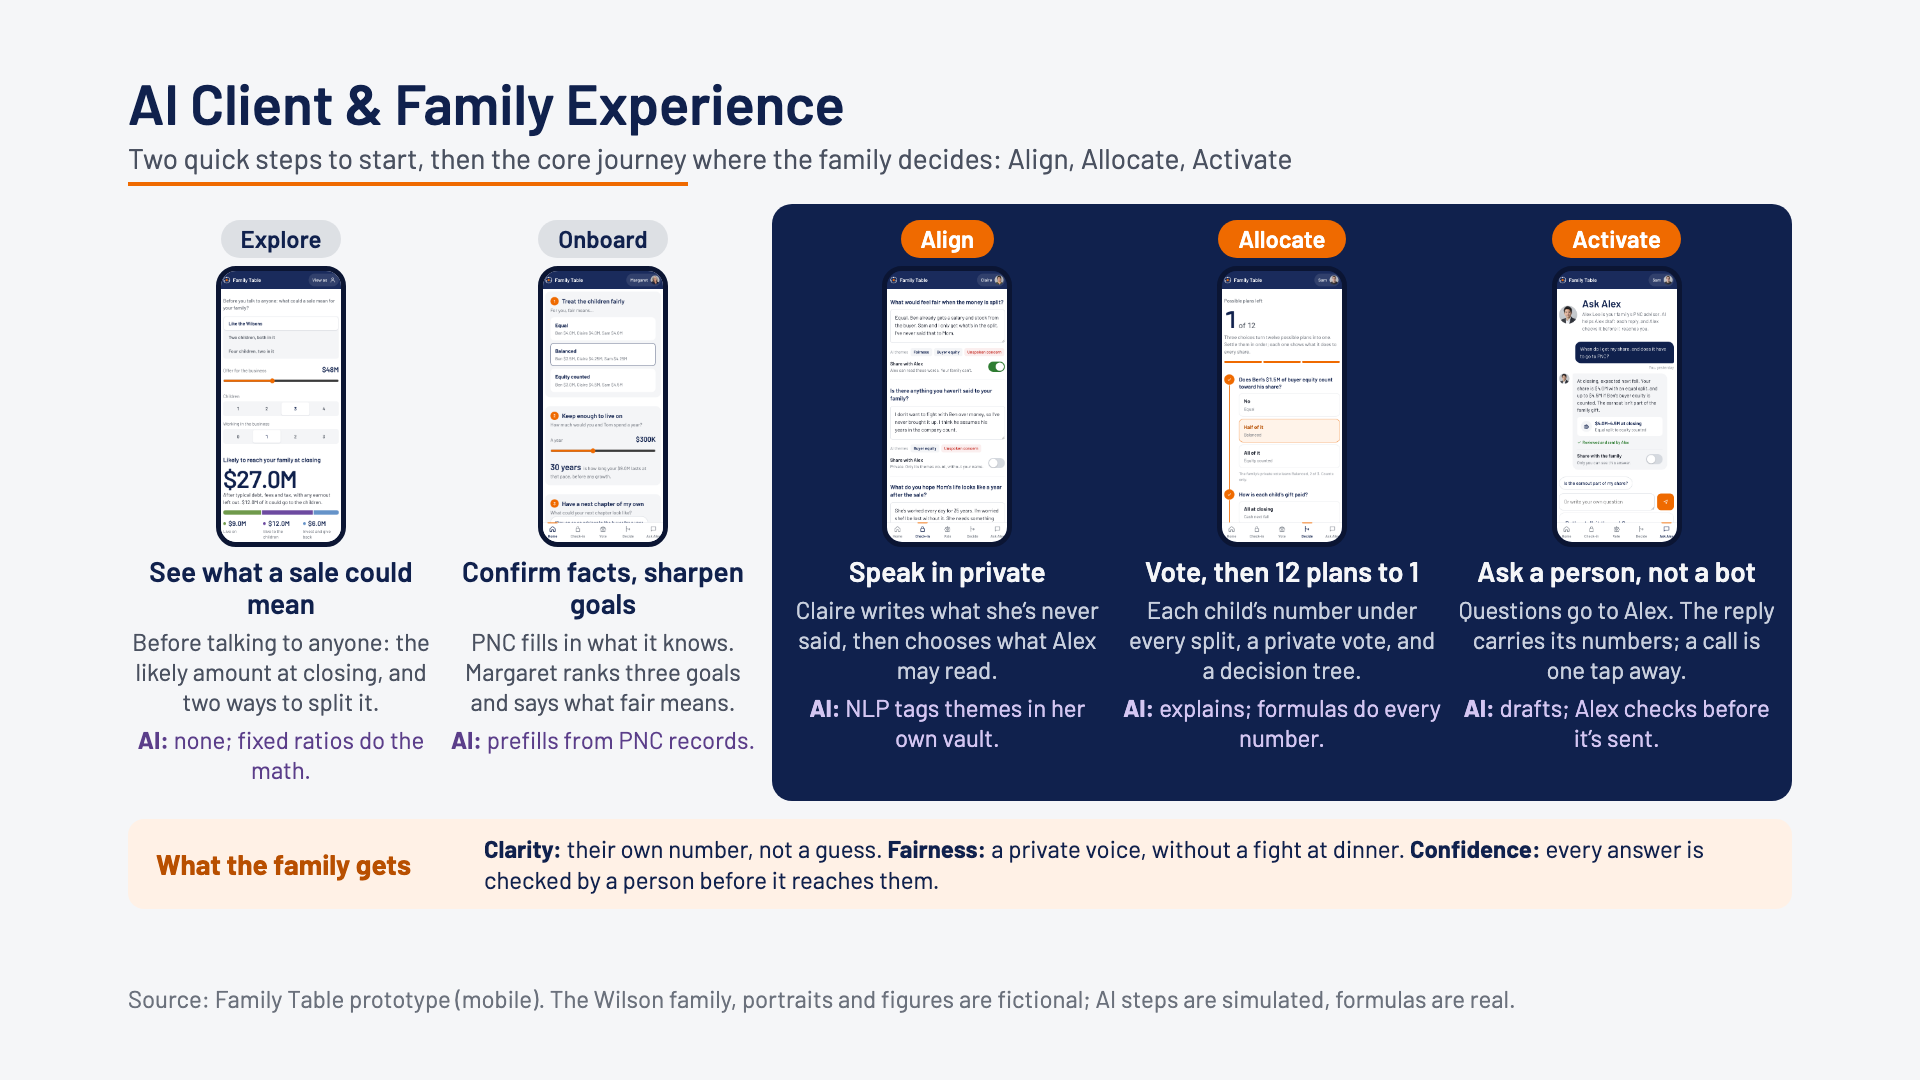
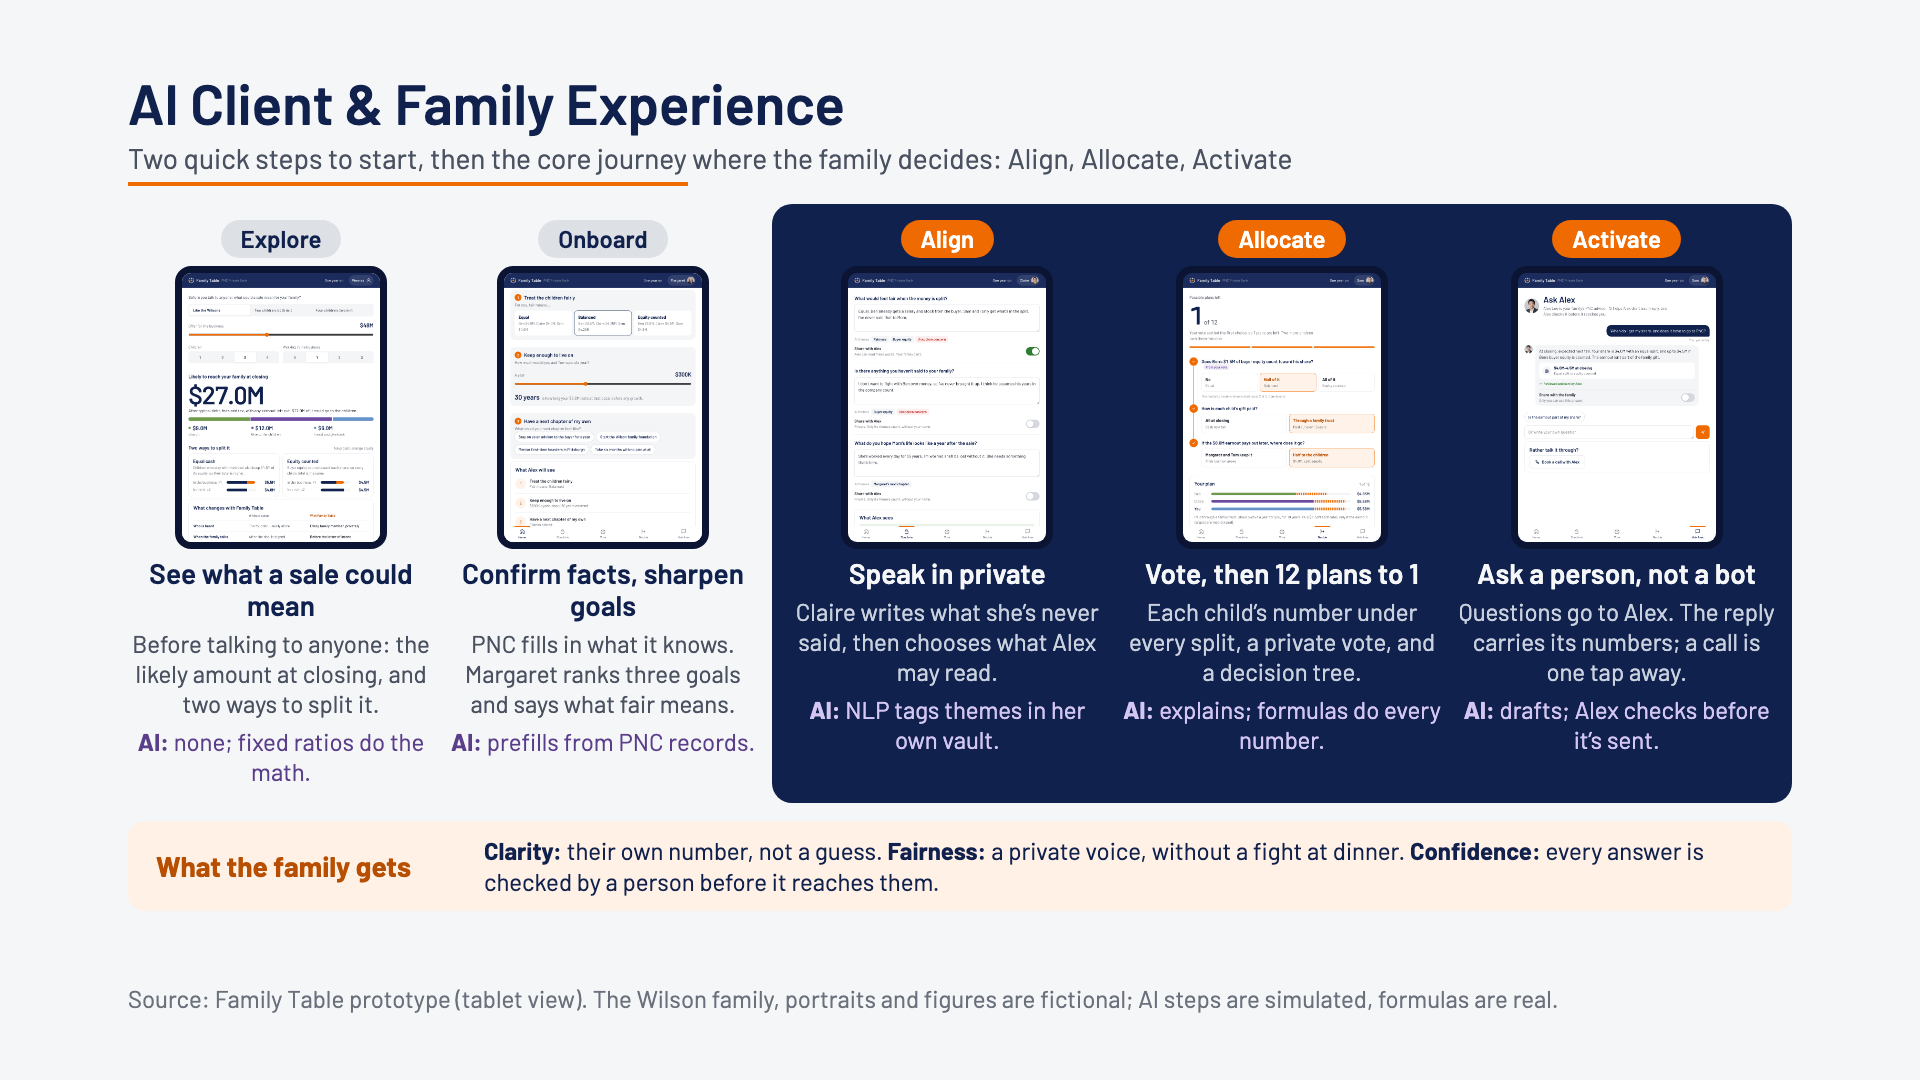
Three-slide deck: tablet mockups on the client experience slide

diff --git a/slides/claude_three/slides/client.html b/slides/claude_three/slides/client.html
@@ -8,14 +8,14 @@
 <div style="width:628px;display:flex;flex-direction:row;gap:16px;padding:16px 0">
 <div style="flex:1;display:flex;flex-direction:column;gap:8px;align-items:center">
 <p style="font-size:24px;font-weight:600;color:#10214D;background:#DDE0E4;padding:2px 20px;border-radius:20px">Explore</p>
-<img src="/_blob/00b10a6fb555babc2955d568ad271aaf" alt="Scenario preview before talking to PNC: $27.0M likely at closing, split into live on, give and invest" style="width:130px;height:281px;object-fit:cover;object-position:top;border:5px solid #0B1533;border-radius:20px">
+<img src="/_blob/1cb0f5b1113dc45f059174e77e356b79" alt="Scenario preview before talking to PNC: $27.0M likely at closing, split into live on, give and invest" style="width:212px;height:283px;object-fit:cover;object-position:top;border:7px solid #0B1533;border-radius:16px">
 <h3 style="font-size:28px;font-weight:600;line-height:1.15;color:#10214D;text-align:center">See what a sale could mean</h3>
 <p style="font-size:24px;line-height:1.25;color:#4A5160;text-align:center">Before talking to anyone: the likely amount at closing, and two ways to split it.</p>
 <p style="font-size:24px;line-height:1.25;color:#5B3E8A;text-align:center"><b>AI:</b> none; fixed ratios do the math.</p>
 </div>
 <div style="flex:1;display:flex;flex-direction:column;gap:8px;align-items:center">
 <p style="font-size:24px;font-weight:600;color:#10214D;background:#DDE0E4;padding:2px 20px;border-radius:20px">Onboard</p>
-<img src="/_blob/4a78d2396571c3d174f4b8ff7ef2cca7" alt="Margaret's setup: what fair means to her, with each child's number, and how long $9.0M lasts" style="width:130px;height:281px;object-fit:cover;object-position:top;border:5px solid #0B1533;border-radius:20px">
+<img src="/_blob/316019cbfc0dbc99ebe8c3c1662e1ee0" alt="Margaret's setup: what fair means to her, with each child's number, and how long $9.0M lasts" style="width:212px;height:283px;object-fit:cover;object-position:top;border:7px solid #0B1533;border-radius:16px">
 <h3 style="font-size:28px;font-weight:600;line-height:1.15;color:#10214D;text-align:center">Confirm facts, sharpen goals</h3>
 <p style="font-size:24px;line-height:1.25;color:#4A5160;text-align:center">PNC fills in what it knows. Margaret ranks three goals and says what fair means.</p>
 <p style="font-size:24px;line-height:1.25;color:#5B3E8A;text-align:center"><b>AI:</b> prefills from PNC records.</p>
@@ -24,21 +24,21 @@
 <div style="flex:1;display:flex;flex-direction:row;gap:16px;background:#10214D;border-radius:20px;padding:16px">
 <div style="flex:1;display:flex;flex-direction:column;gap:8px;align-items:center">
 <p style="font-size:24px;font-weight:600;color:#FFFFFF;background:#EF6A00;padding:2px 20px;border-radius:20px">Align</p>
-<img src="/_blob/ea944ac49113e8d4e2d86c84a008eea0" alt="Claire's private check-in: themes detected and a switch to share each answer with Alex" style="width:130px;height:281px;object-fit:cover;object-position:top;border:5px solid #0B1533;border-radius:20px">
+<img src="/_blob/c85abe67e76cb8efe76991d7a8abc647" alt="Claire's private check-in: themes detected and a switch to share each answer with Alex" style="width:212px;height:283px;object-fit:cover;object-position:top;border:7px solid #0B1533;border-radius:16px">
 <h3 style="font-size:28px;font-weight:600;line-height:1.15;color:#F5F6F8;text-align:center">Speak in private</h3>
 <p style="font-size:24px;line-height:1.25;color:#C9D0DE;text-align:center">Claire writes what she’s never said, then chooses what Alex may read.</p>
 <p style="font-size:24px;line-height:1.25;color:#D4C6F2;text-align:center"><b>AI:</b> NLP tags themes in her own vault.</p>
 </div>
 <div style="flex:1;display:flex;flex-direction:column;gap:8px;align-items:center">
 <p style="font-size:24px;font-weight:600;color:#FFFFFF;background:#EF6A00;padding:2px 20px;border-radius:20px">Allocate</p>
-<img src="/_blob/0c9eaf352033a2506c833691f6614387" alt="Sam's decision tree: three choices narrow 12 possible plans to 1" style="width:130px;height:281px;object-fit:cover;object-position:top;border:5px solid #0B1533;border-radius:20px">
+<img src="/_blob/2a928541732968e0879d946d6c07b261" alt="Sam's decision tree: three choices narrow 12 possible plans to 1" style="width:212px;height:283px;object-fit:cover;object-position:top;border:7px solid #0B1533;border-radius:16px">
 <h3 style="font-size:28px;font-weight:600;line-height:1.15;color:#F5F6F8;text-align:center">Vote, then 12 plans to 1</h3>
 <p style="font-size:24px;line-height:1.25;color:#C9D0DE;text-align:center">Each child’s number under every split, a private vote, and a decision tree.</p>
 <p style="font-size:24px;line-height:1.25;color:#D4C6F2;text-align:center"><b>AI:</b> explains; formulas do every number.</p>
 </div>
 <div style="flex:1;display:flex;flex-direction:column;gap:8px;align-items:center">
 <p style="font-size:24px;font-weight:600;color:#FFFFFF;background:#EF6A00;padding:2px 20px;border-radius:20px">Activate</p>
-<img src="/_blob/877f83e937a54a086c837e3a5dad7cc2" alt="Ask Alex: Sam's question and Alex's reviewed reply with his share range" style="width:130px;height:281px;object-fit:cover;object-position:top;border:5px solid #0B1533;border-radius:20px">
+<img src="/_blob/f74c6b25cfbf615cb9270e24198f0b0e" alt="Ask Alex: Sam's question and Alex's reviewed reply with his share range" style="width:212px;height:283px;object-fit:cover;object-position:top;border:7px solid #0B1533;border-radius:16px">
 <h3 style="font-size:28px;font-weight:600;line-height:1.15;color:#F5F6F8;text-align:center">Ask a person, not a bot</h3>
 <p style="font-size:24px;line-height:1.25;color:#C9D0DE;text-align:center">Questions go to Alex. The reply carries its numbers; a call is one tap away.</p>
 <p style="font-size:24px;line-height:1.25;color:#D4C6F2;text-align:center"><b>AI:</b> drafts; Alex checks before it’s sent.</p>
@@ -49,6 +49,6 @@
 <p style="width:300px;font-size:28px;font-weight:700;line-height:1.1;color:#B84F00">What the family gets</p>
 <p style="flex:1;font-size:24px;line-height:1.3;color:#10214D"><b>Clarity:</b> their own number, not a guess. <b>Fairness:</b> a private voice, without a fight at dinner. <b>Confidence:</b> every answer is checked by a person before it reaches them.</p>
 </div>
-<p style="position:absolute;left:128px;bottom:64px;width:1664px;font-size:24px;color:#6B717C">Source: Family Table prototype (mobile). The Wilson family, portraits and figures are fictional; AI steps are simulated, formulas are real.</p>
+<p style="position:absolute;left:128px;bottom:64px;width:1664px;font-size:24px;color:#6B717C">Source: Family Table prototype (tablet view). The Wilson family, portraits and figures are fictional; AI steps are simulated, formulas are real.</p>
 <aside>Five moments on the family side, all on a phone. Explore and Onboard are the lead-in; the core journey, where the family actually decides, is Align, Allocate and Activate. Before Margaret ever talks to PNC, the preview shows what a sale could mean for a family like hers. Once she joins, PNC has already filled in the facts; she ranks her goals and says what fair means to her. Claire checks in privately: natural-language processing tags themes, and she decides what Alex may read. Each child sees their own number under every split, votes privately, and a decision tree narrows 12 possible plans to one. Questions go to Alex, not a chatbot: the AI drafts, Alex checks and sends. This answers Margaret’s friction: a guided portal, not a dense dashboard, and no direct confrontation at the dinner table.</aside>
 </section>

diff --git a/video/src/slide_shots_canva.js b/video/src/slide_shots_canva.js
@@ -1,11 +1,12 @@
-// node slide_shots_canva.js [base] -> the screens used on the three Canva slides (client experience, advisor
+// node slide_shots_canva.js [base] [--tablet] -> the screens used on the three Canva slides (client experience, advisor
 // workbench, secret sauce): phone shots at 390x844 @2x and slide-ratio desktop crops at 1100x518 @2x, into slides/canva/raw.
 const { chromium } = require("playwright-core");
 const fs = require("fs");
 const path = require("path");
 const BIN = path.join(process.env.HOME, "Library/Caches/ms-playwright/chromium_headless_shell-1234/chrome-headless-shell-mac-arm64/chrome-headless-shell");
-const BASE = process.argv[2] || "http://localhost:4311/prototype/";
-const OUT = path.join(__dirname, "../../slides/canva/raw");
+const BASE = (process.argv[2] && !process.argv[2].startsWith("--") && process.argv[2]) || "http://localhost:4311/prototype/";
+const TABLET = process.argv.includes("--tablet"); // tablet mockups for the three-slide Claude deck
+const OUT = path.join(__dirname, TABLET ? "../../slides/claude_three/raw" : "../../slides/canva/raw");
 const MID = { started: true, invited: true, shared: ["q1"], approved: true };
 const PHONE = [
   ["preview", "p1_preview", { pv: { preset: "wilson", value: 48, kids: 3, inBiz: 1 } }, null],
@@ -25,7 +26,7 @@ const DESK = [
   const b = await chromium.launch({ executablePath: BIN, args: ["--hide-scrollbars"] });
   const errs = [];
   const go = async (p, r, st) => { await p.evaluate(([r, st]) => { window.FT.reset(); window.FT.set(st); location.hash = "#/" + r; }, [r, st]); await p.waitForTimeout(450); };
-  const p = await b.newPage({ viewport: { width: 390, height: 844 }, deviceScaleFactor: 2 });
+  const p = await b.newPage({ viewport: TABLET ? { width: 768, height: 1024 } : { width: 390, height: 844 }, deviceScaleFactor: 2 });
   p.on("pageerror", e => errs.push(e.message));
   await p.emulateMedia({ reducedMotion: "reduce" });
   await p.goto(BASE + "?reset#/", { waitUntil: "networkidle" });
@@ -36,6 +37,7 @@ const DESK = [
     await p.waitForTimeout(250);
     await p.screenshot({ path: path.join(OUT, n + ".png") });
   }
+  if (TABLET) { await b.close(); console.log("errors:", errs.length ? errs : "none"); return; }
   const d = await b.newPage({ viewport: { width: 1100, height: 620 }, deviceScaleFactor: 2 });
   d.on("pageerror", e => errs.push(e.message));
   await d.emulateMedia({ reducedMotion: "reduce" });

diff --git a/video/src/slides_check.js b/video/src/slides_check.js
@@ -9,6 +9,11 @@ const BIN = path.join(process.env.HOME, "Library/Caches/ms-playwright/chromium_h
 const [root, out] = process.argv.slice(2);
 const SHOTS = path.join(__dirname, "../../prototype/shots");
 const BLOBS = {
+  "1cb0f5b1113dc45f059174e77e356b79": "../../slides/claude_three/raw/p1_preview.png",
+  "316019cbfc0dbc99ebe8c3c1662e1ee0": "../../slides/claude_three/raw/p2_setup.png",
+  "c85abe67e76cb8efe76991d7a8abc647": "../../slides/claude_three/raw/p3_checkin.png",
+  "2a928541732968e0879d946d6c07b261": "../../slides/claude_three/raw/p4_decide.png",
+  "f74c6b25cfbf615cb9270e24198f0b0e": "../../slides/claude_three/raw/p5_ask.png",
   "00b10a6fb555babc2955d568ad271aaf": "../../slides/canva/raw/p1_preview.png",
   "4a78d2396571c3d174f4b8ff7ef2cca7": "../../slides/canva/raw/p2_setup.png",
   "ea944ac49113e8d4e2d86c84a008eea0": "../../slides/canva/raw/p3_checkin.png",
